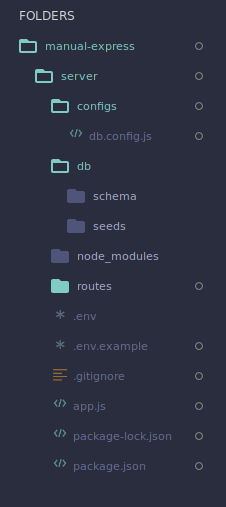
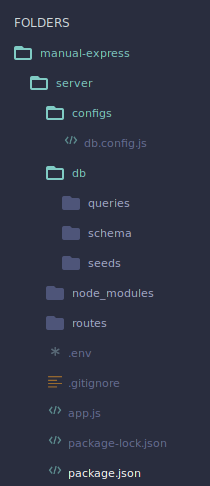
:books: update manual nodeJS setup

diff --git a/w10d04-Final-Project-Kickoff/manual-setup-nodejs/README.md b/w10d04-Final-Project-Kickoff/manual-setup-nodejs/README.md
@@ -183,15 +183,14 @@ inside of our `app.js`.
 /////////// catsRoutes.js
 const router = require('express').Router();
 
-module.exports = () => {
-  // all routes will go here 
-  router.get('/', (req, res) => {
-    const cats = ['Rosey', 'Puma', 'Mr Buttons', 'Aya'];
-    res.json(cats);
-  });
+router.get('/', (req, res) => {
+  const cats = ['Rosey', 'Puma', 'Mr Buttons', 'Aya'];
+  res.json(cats);
+});
   
-  return router;
-}
+
+module.exports = router;
+
 ```
 
 Then inside of our `app.js` we will add the `require` and `app.use` so that we tell express whenever someone 
@@ -271,48 +270,14 @@ module.exports = pool;
 
 ![9-db-config-js](https://raw.githubusercontent.com/cpt-waffle/lhl-lectures/master/w10d04-Final-Project-Kickoff/manual-setup-nodejs/screenshots/9-db-config-js.png)
 
-We will also need to add the code to `app.js` so that it gets 
-imported in and we can use the `db` object to do queries.
+#### We will now use this connection, in any database helper/query file. 
+This is done so we can seperate are quaries into different files. ( just like in the midterm !)
 
-add this line:
-
-```js
-// db connection
-const db = require('./configs/db.config');
-```
-to your `app.js`.
-
-```js
-// declarations
-require('dotenv').config()
-const {ENVIROMENT, PORT} = process.env;
-const express = require('express');
-const morgan = require('morgan');
-const bodyParser = require('body-parser');
-
-// db connection
-const db = require('./configs/db.config'); // <---------
-
-// routes import
-const catsRoutes = require('./routes/catsRoutes');
-
-
-const app = express();
-
-// middleware setup
-app.use(morgan(ENVIROMENT));
-app.use(bodyParser.json());
-//REST of APP.js............
-```
-
-
-Now try running the application (`node app.js`) and you should see that the database connection has been established. 
-
-![10-server-db](https://raw.githubusercontent.com/cpt-waffle/lhl-lectures/master/w10d04-Final-Project-Kickoff/manual-setup-nodejs/screenshots/10-server-db.png)
+Lets create a file that will be responsible for all `database queries` for our cats table.
 
 ###  Adding Postgres -- Database File structure (Schema and Seeds)
 
-We now need to store files for `schema` and `seeds`. In the `server/` folder, we will make a new folder called `db` and inside of the `db/` folder we make 2 new folders called `seeds` and `schema`.
+We now need to store files for `queries`, `schema` and `seeds`. In the `server/` folder, we will make a new folder called `db` and inside of the `db/` folder we make 2 new folders called `seeds` and `schema`.
 
 ![11-migrations-and-seeds](https://raw.githubusercontent.com/cpt-waffle/lhl-lectures/master/w10d04-Final-Project-Kickoff/manual-setup-nodejs/screenshots/11-migrations-and-seeds.png)
 
@@ -397,6 +362,7 @@ INSERT INTO urls (id, user_id, long_url, short_url, favorite) VALUES (19, 4, 'ww
 -- Seed Almight
 INSERT INTO urls (id, user_id, long_url, short_url, favorite) VALUES (20, 5, 'www.heroacademia.jp', 'KcF43', true);
 ```
+
 
 ![12-migrations-seeds-folder-structure](https://raw.githubusercontent.com/cpt-waffle/lhl-lectures/master/w10d04-Final-Project-Kickoff/manual-setup-nodejs/screenshots/12-migrations-seeds-folder-structure.gif)
 
@@ -496,37 +462,50 @@ Final Result should look like this:
 
 ### Adding Postgres -- Passing DB into routes
 
-Now that we have data and a `db` connection, we should look into passing it into different
-routes so that we can call database queries within them.
+Now that we have data and a `db` connection. We should make `query` file to have each file responsible for one specific table entity (like `models` from rails!)
 
-Go into `app.js` and pass the `db` object down into `catRoutes())` like this:
+Go into `/queries` folder, and make a file called, `users.js`.
+This file will require the `db` connection from, `configs/db.config.js`
+
+The `db/queries/users.js` will look like this:
 
 ```js
-// ... app.js top
+// db/queries/users.js
 
-// routes
-app.use('/cats', catsRoutes(db));
+const db = require('../../configs/db.config');
 
-// ... app.js bottom
+const getAllUsers = () => {
+	return db.query("SELECT * FROM users;").then(data => {
+		return data.rows;
+	})
+}
+
+const getUserById = id => {
+	return db.query("SELECT * FROM users; WHERE id = $1", [id]).then(data => {
+		return data.rows;
+	})
+}
+
+module.exports = {getAllUsers, getUserById}
 ```
 
-Now that we passed `db` into  `catRoutes`, go into `routes/catRoutes.js` and lets make sure we get that parameter, followed by try running a query: 
+Now that `db/queries/users.js` is created, all we have need to do is `require` it in ANY route file, 
+and use the methods we have created:
 
 ```js
 // -- routes/catRoutes.js
 const router = require('express').Router();
+const users = require('../db/queries/users');
 
-module.exports = (db) => {
-  // all routes will go here 
-  router.get('/', (req, res) => {
-    const command = "SELECT * FROM users";
-    db.query(command).then(data => {
-      res.json(data.rows);
-    })
-  });
+router.get('/', (req, res) => {
+  users.getAllUsers().then(data => {
+    console.log(data);
+    res.json({users: data});
+  })
+});
+  
+module.exports = router;
 
-  return router;
-}
 ```
 
 Restart the server and if you go to `/cats` you should be able to see all the users we seeded into the database:
